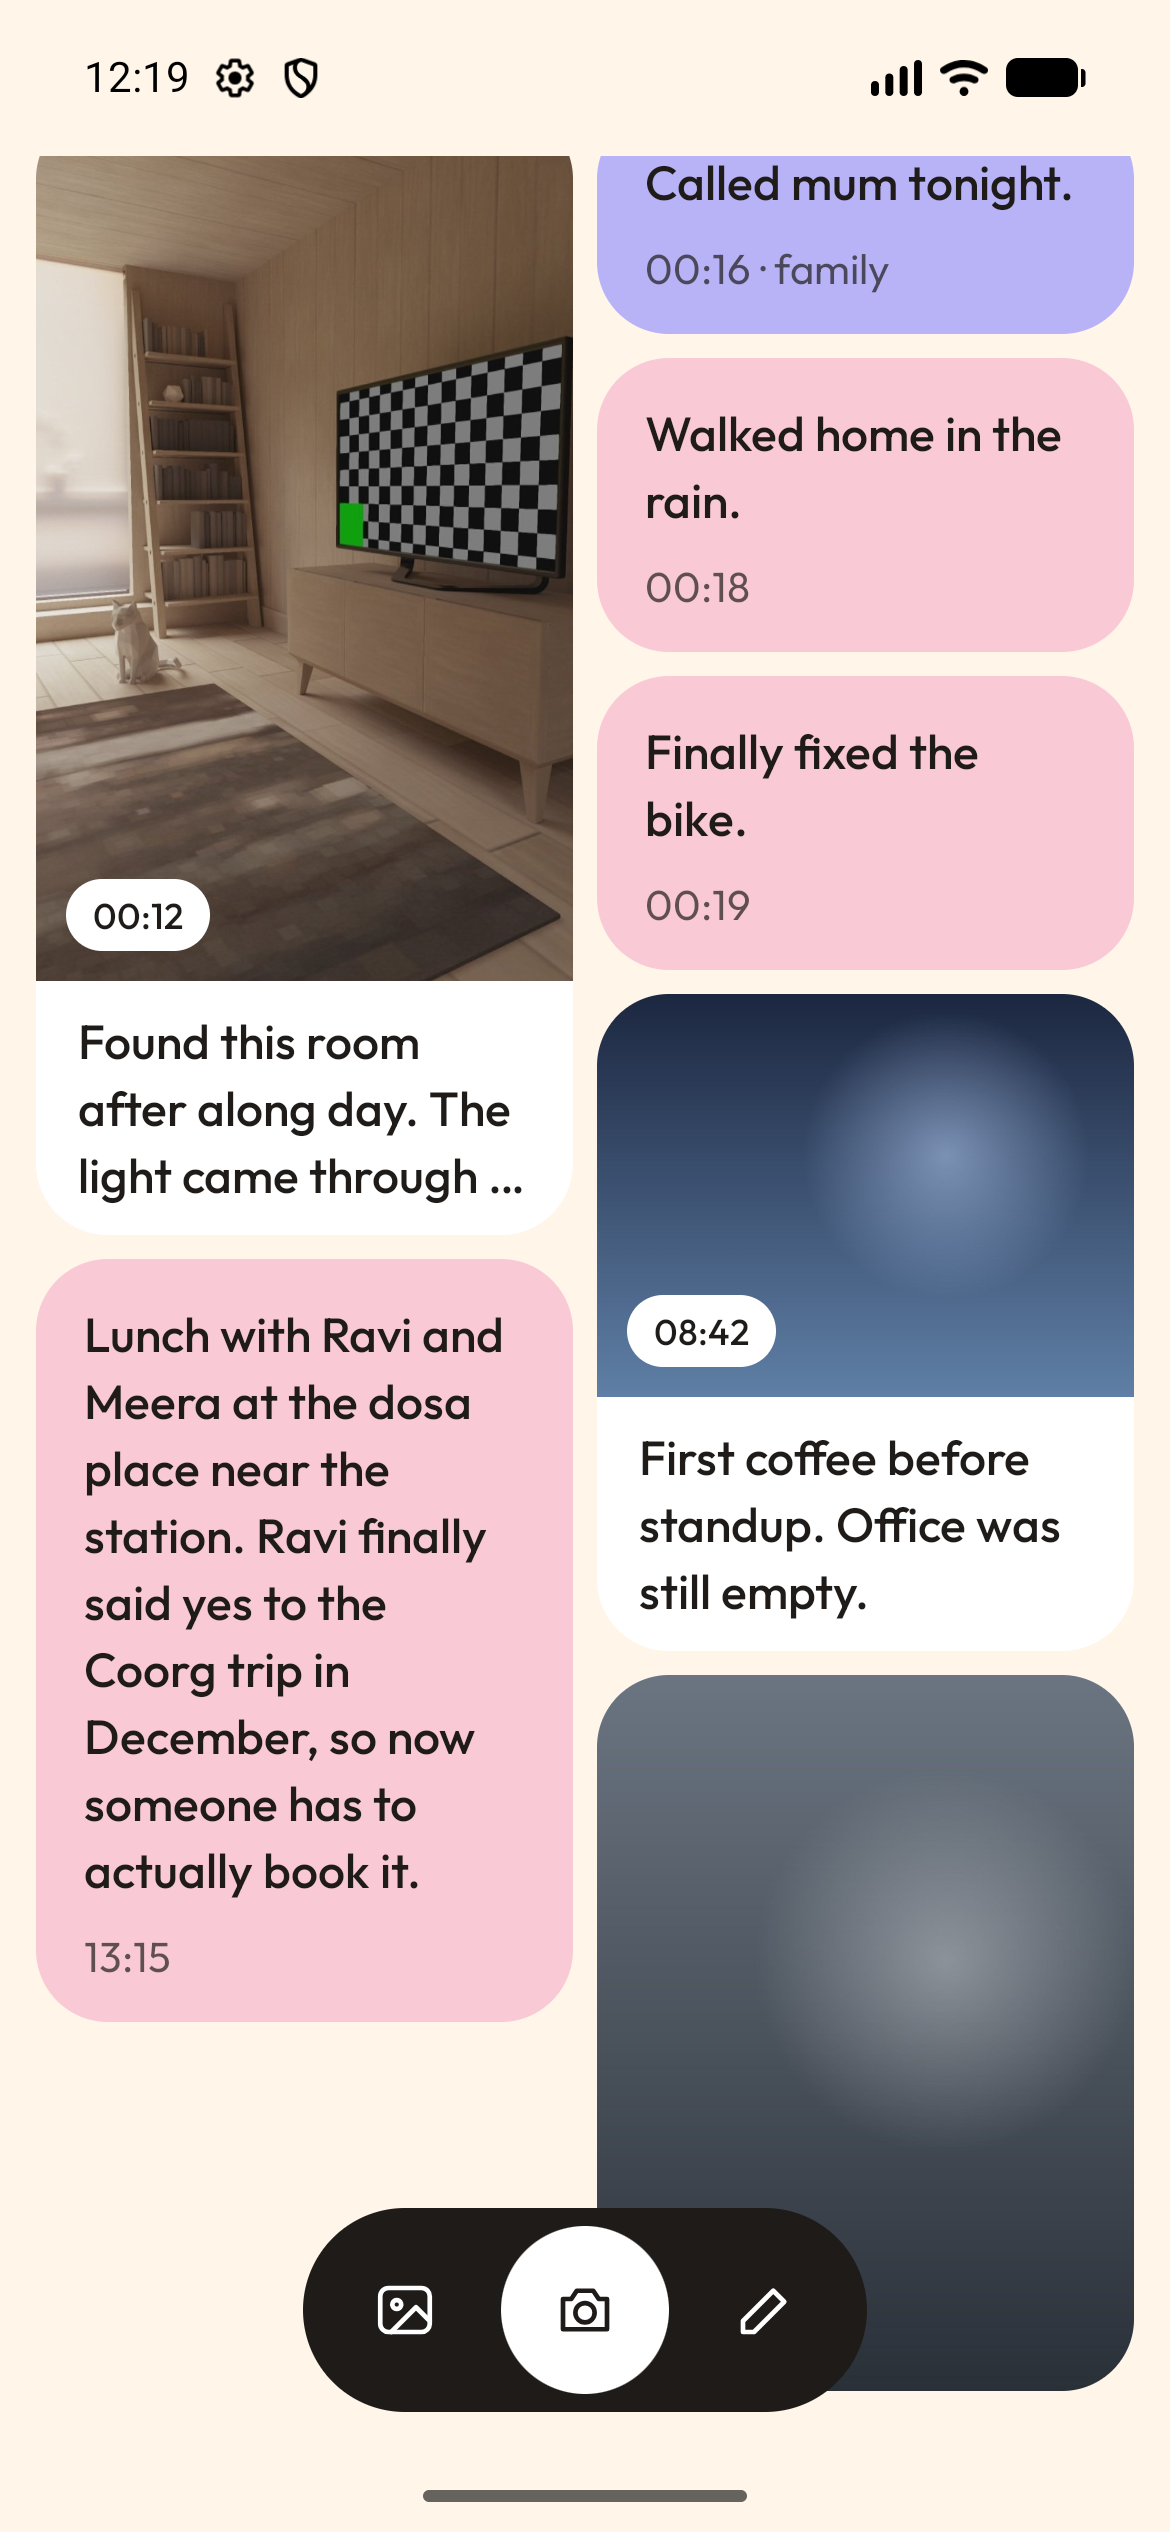
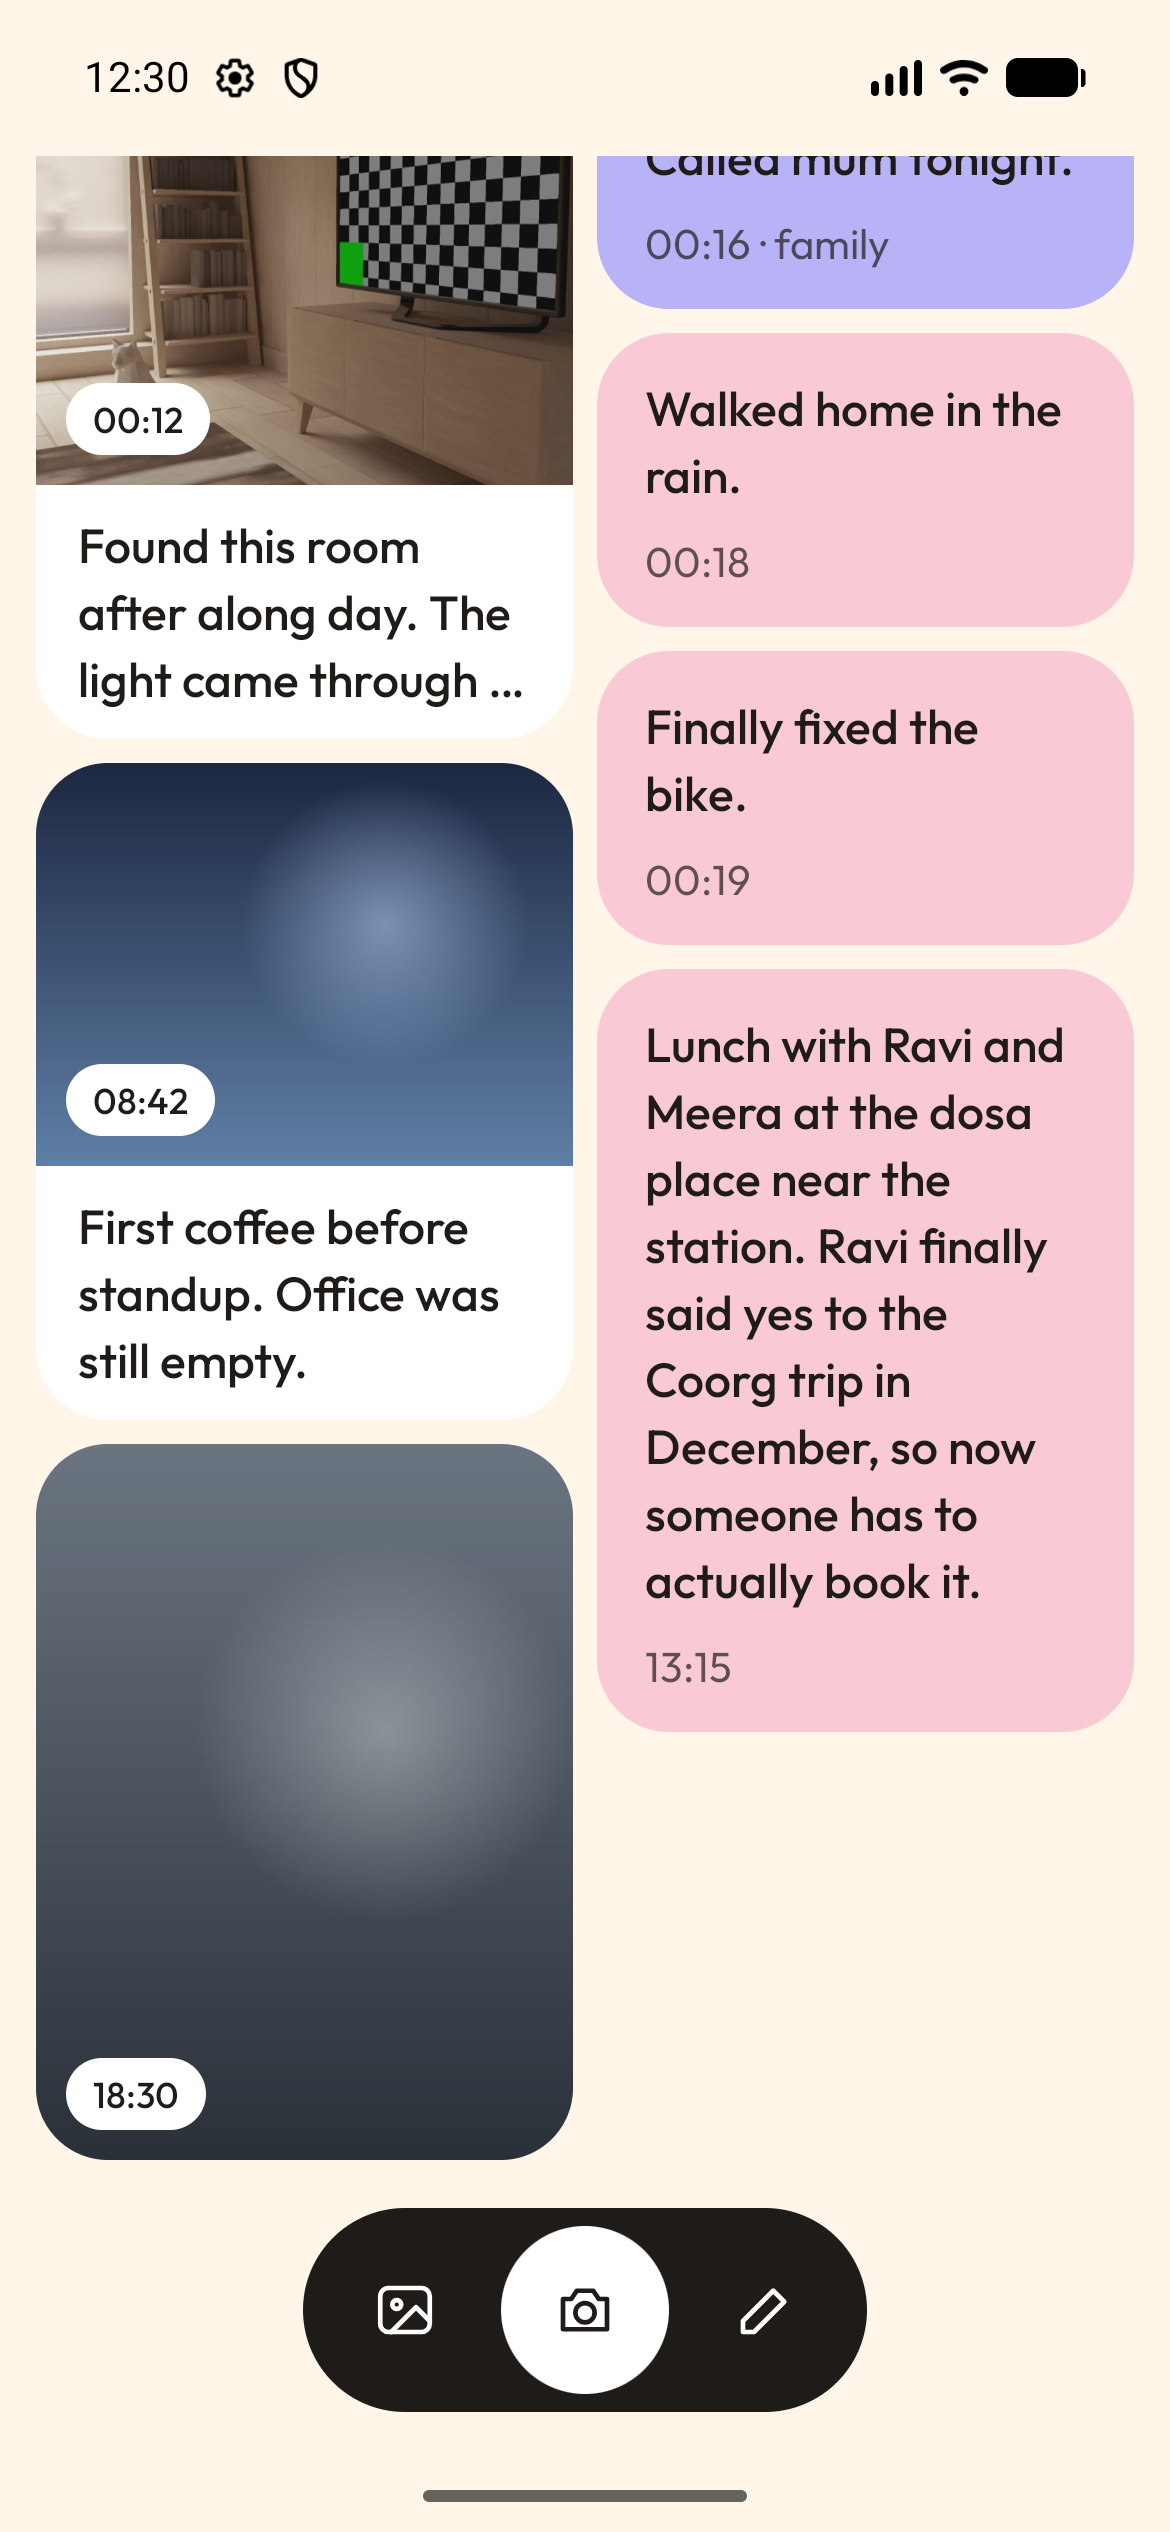
fix(ui): content clears the dock; entry status bar and peeks follow the page

diff --git a/app/src/main/java/com/personal/journal/ui/entry/EntryScreen.kt b/app/src/main/java/com/personal/journal/ui/entry/EntryScreen.kt
@@ -1,5 +1,6 @@
 package com.personal.journal.ui.entry
 
+import android.app.Activity
 import androidx.compose.animation.animateColorAsState
 import androidx.compose.foundation.background
 import androidx.compose.foundation.clickable
@@ -29,6 +30,7 @@ import androidx.compose.material3.MaterialTheme
 import androidx.compose.material3.Text
 import androidx.compose.material3.TextButton
 import androidx.compose.runtime.Composable
+import androidx.compose.runtime.DisposableEffect
 import androidx.compose.runtime.LaunchedEffect
 import androidx.compose.runtime.getValue
 import androidx.compose.runtime.mutableStateOf
@@ -41,12 +43,16 @@ import androidx.compose.runtime.snapshotFlow
 import androidx.compose.ui.Alignment
 import androidx.compose.ui.Modifier
 import androidx.compose.ui.draw.clip
+import androidx.compose.ui.graphics.graphicsLayer
+import androidx.compose.ui.graphics.luminance
+import androidx.compose.ui.platform.LocalView
 import androidx.compose.ui.graphics.Color
 import androidx.compose.ui.layout.ContentScale
 import androidx.compose.ui.semantics.Role
 import androidx.compose.ui.text.style.TextAlign
 import androidx.compose.ui.text.style.TextOverflow
 import androidx.compose.ui.unit.dp
+import androidx.core.view.WindowCompat
 import androidx.lifecycle.compose.collectAsStateWithLifecycle
 import coil3.compose.AsyncImage
 import com.personal.journal.data.db.EntryType
@@ -70,6 +76,8 @@ import com.personal.journal.ui.dayTitle
 import com.personal.journal.ui.timeLabel
 import kotlinx.coroutines.launch
 import java.io.File
+import kotlin.math.abs
+import kotlin.math.min
 
 private const val HERO_ASPECT = 300f / 430f
 
@@ -104,6 +112,8 @@ fun EntryScreen(vm: EntryViewModel, photoFile: (String) -> File, tintCache: Tint
         value = tintCache.tint(shown.entry.id, shown.entry.thumbFile?.let(photoFile), dark)
     }
     val background by animateColorAsState(shownColour?.fill ?: tint ?: JournalColors.Background, label = "entry background")
+    // 0.25 sits just above the point where dark and white icons contrast equally, so mid pastels get dark icons
+    StatusBarIcons(light = background.luminance() > 0.25f)
     val headerInk = shownColour?.onFill ?: JournalColors.TextSecondary
 
     Box(Modifier.fillMaxSize().background(background)) {
@@ -132,7 +142,9 @@ fun EntryScreen(vm: EntryViewModel, photoFile: (String) -> File, tintCache: Tint
                 ) { page ->
                     val item = day[page]
                     val colour = item.colourOrNull()
-                    if (colour == null) PhotoPage(item, photoFile) else TextPage(item, colour)
+                    // text belongs to the settled page; in a side peek only the card shows
+                    val textAlpha = 1f - min(1f, abs(pager.currentPage - page + pager.currentPageOffsetFraction))
+                    if (colour == null) PhotoPage(item, photoFile, textAlpha) else TextPage(item, colour, textAlpha)
                 }
             } else {
                 val tagState by editing.state.collectAsStateWithLifecycle()
@@ -201,7 +213,7 @@ private fun EntryWithTags.colourOrNull(): TagColour? =
 
 /** Day and time, the photo as a 300×430 hero, and the caption clamped to three lines until tapped. */
 @Composable
-private fun PhotoPage(item: EntryWithTags, photoFile: (String) -> File) {
+private fun PhotoPage(item: EntryWithTags, photoFile: (String) -> File, textAlpha: Float) {
     val entry = item.entry
     var expanded by rememberSaveable(entry.id) { mutableStateOf(false) }
     var overflows by remember(entry.id) { mutableStateOf(false) }
@@ -209,10 +221,13 @@ private fun PhotoPage(item: EntryWithTags, photoFile: (String) -> File) {
         Modifier.fillMaxSize().verticalScroll(rememberScrollState()).padding(bottom = DockClearance),
         horizontalAlignment = Alignment.CenterHorizontally,
     ) {
-        Text(dayTitle(entry.localDate), style = MaterialTheme.typography.displayLarge, color = JournalColors.TextPrimary, maxLines = 1)
+        Text(
+            dayTitle(entry.localDate), style = MaterialTheme.typography.displayLarge, color = JournalColors.TextPrimary, maxLines = 1,
+            modifier = Modifier.graphicsLayer { alpha = textAlpha },
+        )
         Text(
             timeLabel(entry.takenAt), style = MaterialTheme.typography.bodySmall, color = JournalColors.TextSecondary,
-            modifier = Modifier.padding(top = 6.dp),
+            modifier = Modifier.padding(top = 6.dp).graphicsLayer { alpha = textAlpha },
         )
         Box(
             Modifier
@@ -241,6 +256,7 @@ private fun PhotoPage(item: EntryWithTags, photoFile: (String) -> File) {
                 // only a caption cut short by the clamp is worth tapping
                 onTextLayout = { if (!expanded) overflows = it.hasVisualOverflow },
                 modifier = Modifier
+                    .graphicsLayer { alpha = textAlpha }
                     .padding(top = 24.dp, start = 4.dp, end = 4.dp)
                     .then(
                         if (expanded || overflows) {
@@ -254,7 +270,7 @@ private fun PhotoPage(item: EntryWithTags, photoFile: (String) -> File) {
 
 /** A text entry as a big index card in its tag colour; long text scrolls inside it. */
 @Composable
-private fun TextPage(item: EntryWithTags, colour: TagColour) {
+private fun TextPage(item: EntryWithTags, colour: TagColour, textAlpha: Float) {
     val entry = item.entry
     Column(
         Modifier
@@ -265,7 +281,7 @@ private fun TextPage(item: EntryWithTags, colour: TagColour) {
             .padding(start = 20.dp, end = 20.dp, top = 28.dp, bottom = DockClearance),
     ) {
         Row(
-            Modifier.horizontalScroll(rememberScrollState()),
+            Modifier.graphicsLayer { alpha = textAlpha }.horizontalScroll(rememberScrollState()),
             horizontalArrangement = Arrangement.spacedBy(8.dp),
             verticalAlignment = Alignment.CenterVertically,
         ) {
@@ -279,8 +295,29 @@ private fun TextPage(item: EntryWithTags, colour: TagColour) {
             entry.text.orEmpty(),
             style = MaterialTheme.typography.headlineLarge,
             color = colour.onFill,
-            modifier = Modifier.padding(top = 22.dp),
+            modifier = Modifier.padding(top = 22.dp).graphicsLayer { alpha = textAlpha },
         )
+    }
+}
+
+/** Dark status and navigation icons on a light page, light ones on a dark page; the theme's own are restored on leaving. */
+@Composable
+private fun StatusBarIcons(light: Boolean) {
+    val view = LocalView.current
+    if (view.isInEditMode) return
+    val window = (view.context as Activity).window
+    val controller = remember(window, view) { WindowCompat.getInsetsController(window, view) }
+    val original = remember(controller) { controller.isAppearanceLightStatusBars to controller.isAppearanceLightNavigationBars }
+    DisposableEffect(light) {
+        controller.isAppearanceLightStatusBars = light
+        controller.isAppearanceLightNavigationBars = light
+        onDispose { }
+    }
+    DisposableEffect(controller) {
+        onDispose {
+            controller.isAppearanceLightStatusBars = original.first
+            controller.isAppearanceLightNavigationBars = original.second
+        }
     }
 }
 

diff --git a/app/src/main/java/com/personal/journal/ui/day/DayScreen.kt b/app/src/main/java/com/personal/journal/ui/day/DayScreen.kt
@@ -7,11 +7,9 @@ import androidx.compose.foundation.layout.Arrangement
 import androidx.compose.foundation.layout.Box
 import androidx.compose.foundation.layout.Column
 import androidx.compose.foundation.layout.PaddingValues
-import androidx.compose.foundation.layout.Spacer
 import androidx.compose.foundation.layout.aspectRatio
 import androidx.compose.foundation.layout.fillMaxSize
 import androidx.compose.foundation.layout.fillMaxWidth
-import androidx.compose.foundation.layout.height
 import androidx.compose.foundation.layout.navigationBarsPadding
 import androidx.compose.foundation.layout.padding
 import androidx.compose.foundation.layout.statusBarsPadding
@@ -67,7 +65,7 @@ fun DayScreen(
         LazyVerticalStaggeredGrid(
             columns = StaggeredGridCells.Fixed(2),
             modifier = Modifier.fillMaxSize(),
-            contentPadding = PaddingValues(horizontal = 12.dp),
+            contentPadding = PaddingValues(start = 12.dp, end = 12.dp, bottom = DockClearance),
             horizontalArrangement = Arrangement.spacedBy(8.dp),
             verticalItemSpacing = 8.dp,
         ) {
@@ -91,7 +89,6 @@ fun DayScreen(
                     NoteTile(entry.text.orEmpty(), timeLabel(entry.takenAt), item.entry.tags.map { it.name }, open)
                 }
             }
-            item(span = StaggeredGridItemSpan.FullLine) { Spacer(Modifier.height(DockClearance)) }
         }
         Dock(
             listOf(
